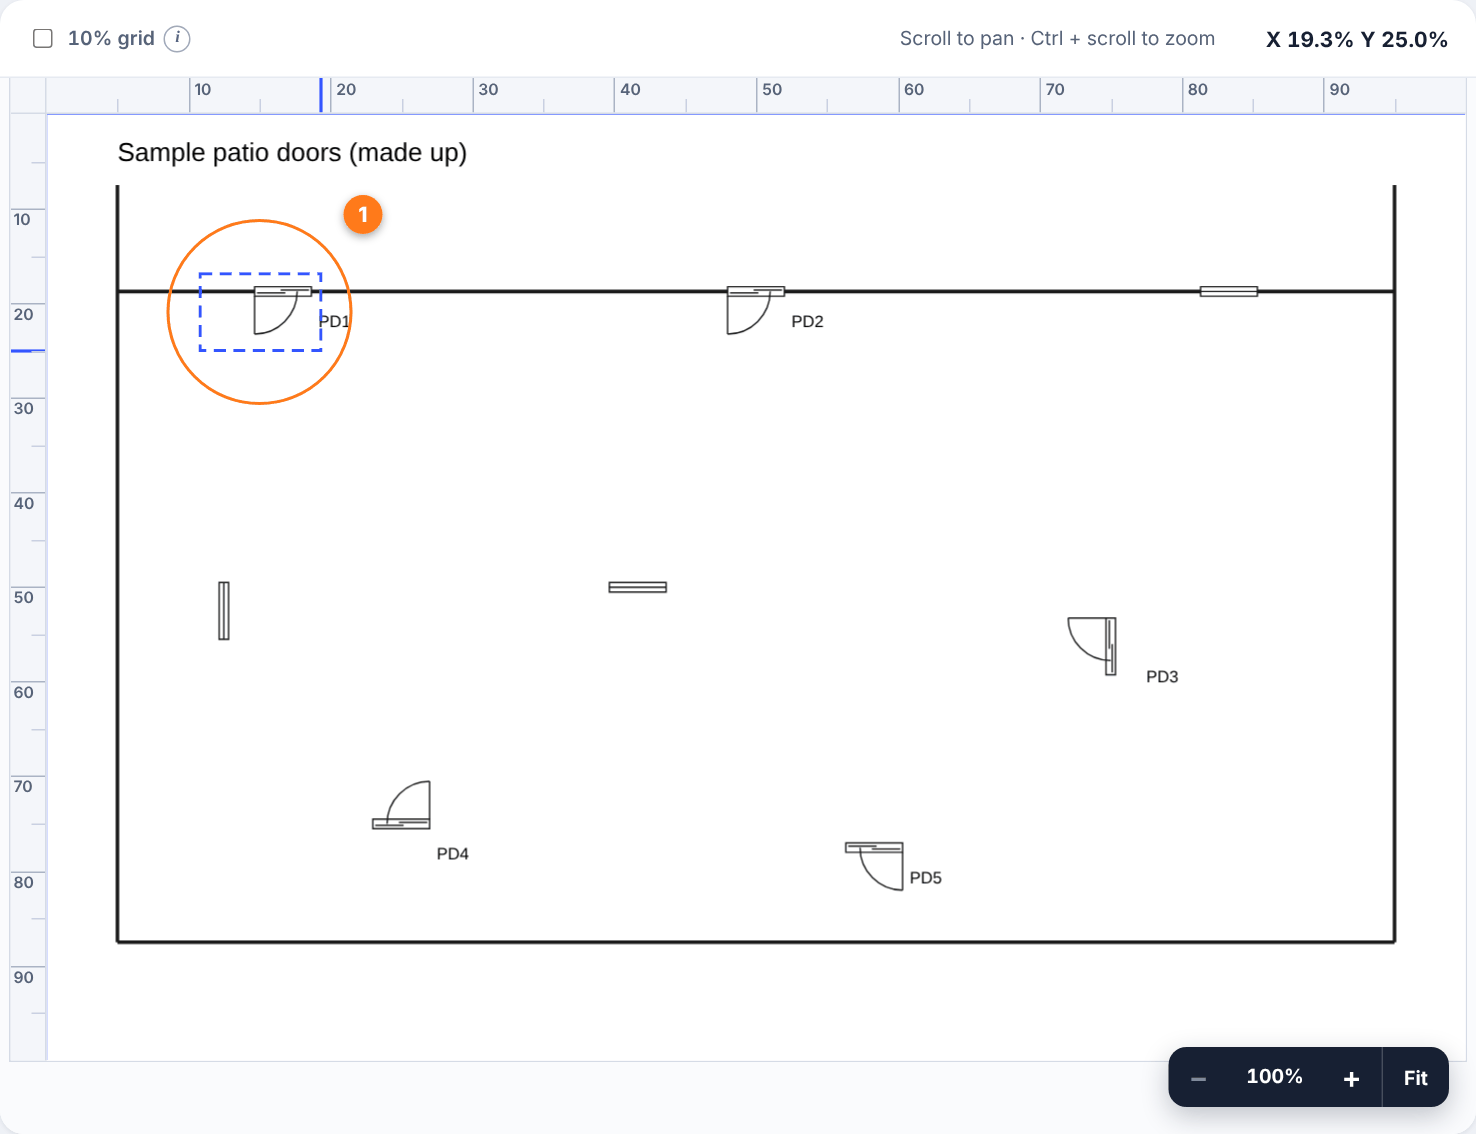
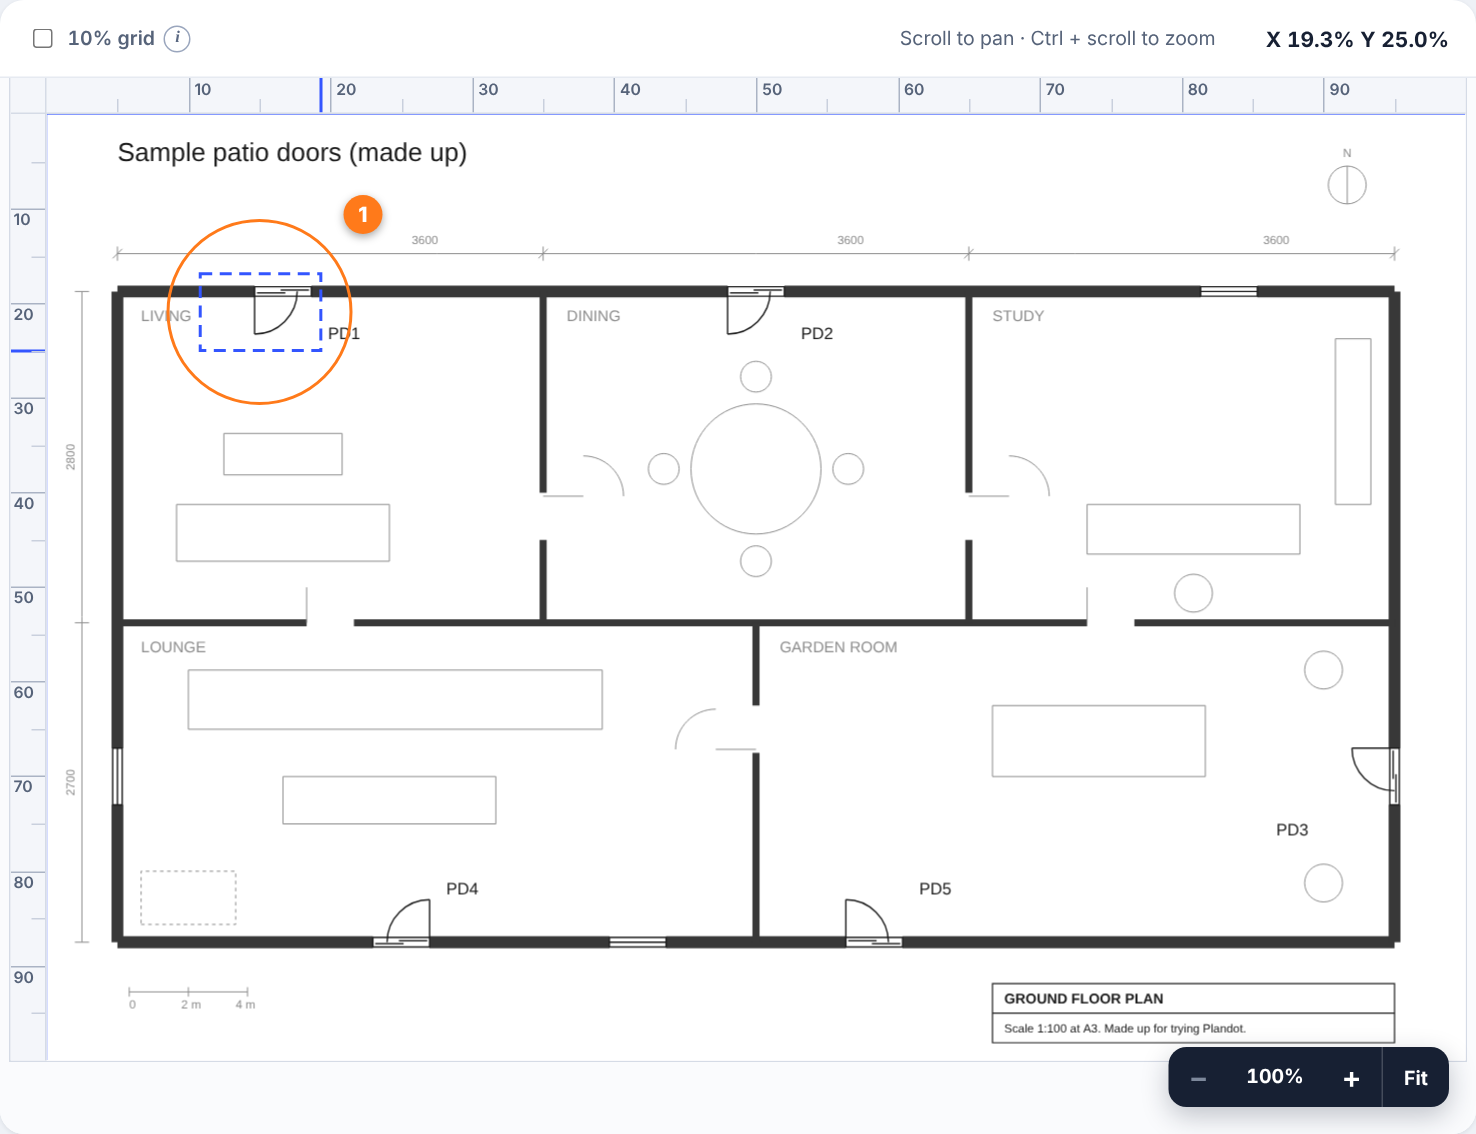
Floor plan sample and plandot.uk links

diff --git a/howto.html b/howto.html
@@ -98,7 +98,7 @@
 
   <section class="card" id="symbols">
     <h2>Finding symbols</h2>
-    <p>Some things on a drawing have no text, such as a patio door or a fire extinguisher symbol. Plandot can find those too. Here it is with a made-up drawing of patio doors (<code>samples/sample-symbols.pdf</code>, included with the project). Five doors are drawn, some turned, mirrored or upside down, along with three windows that look a little like them.</p>
+    <p>Some things on a drawing have no text, such as a patio door or a fire extinguisher symbol. Plandot can find those too. Here it is with a made-up floor plan (<code>samples/sample-symbols.pdf</code>, included with the project). Five patio doors are set into the outside walls, some turned, mirrored or upside down, along with three windows that look a little like them.</p>
 
     <h3>1. Choose Draw box</h3>
     <div class="split">
@@ -110,11 +110,11 @@
 
     <h3>2. Box one example</h3>
     <p>Drag a box on the sheet that fully contains one door. Lines that stick out of the box, such as the wall behind the door, are left out. Choose a clean example with nothing else inside the box.</p>
-    <figure class="shot"><img src="help/img/symbols-2-box.png" width="738" alt="The patio door drawing with a dashed blue box being dragged around the first door. Number one marks the box." loading="lazy"><figcaption>The dashed box goes around one door.</figcaption></figure>
+    <figure class="shot"><img src="help/img/symbols-2-box.png" width="738" alt="A floor plan with rooms, walls and furniture, and a dashed blue box being dragged around the first patio door. Number one marks the box." loading="lazy"><figcaption>The dashed box goes around one door.</figcaption></figure>
 
     <h3>3. Every copy gets a pin</h3>
     <p>Plandot looks for the same shape everywhere on the sheet. It finds all five doors, including the turned, mirrored and upside-down ones, and leaves the windows alone.</p>
-    <figure class="shot"><img src="help/img/symbols-3-found.png" width="738" alt="The same drawing with a blue pin on each of the five doors. Number one marks two of the doors. Number two marks the three look-alike windows, which have no pins." loading="lazy"><figcaption>1: a pin on every door. 2: the look-alike windows are left alone.</figcaption></figure>
+    <figure class="shot"><img src="help/img/symbols-3-found.png" width="738" alt="The same floor plan with a blue pin on each of the five patio doors. Number one marks two of the doors. Number two marks the three look-alike windows, which have no pins." loading="lazy"><figcaption>1: a pin on every door. 2: the look-alike windows are left alone.</figcaption></figure>
 
     <h3>4. Tune the match</h3>
     <div class="split">

diff --git a/index.html b/index.html
@@ -9,8 +9,9 @@
 <meta property="og:type" content="website">
 <meta property="og:title" content="Plandot: turn plan callouts into pins">
 <meta property="og:description" content="Find callouts and symbols on a drawing PDF and get an import file with every pin placed. Runs in your browser; your drawings are never uploaded.">
-<!-- When the site has its final address, make og:image and og:url full web addresses (https://your-domain/docs/preview.png): link previews need them. -->
-<meta property="og:image" content="docs/preview.png">
+<link rel="canonical" href="https://plandot.uk/">
+<meta property="og:url" content="https://plandot.uk/">
+<meta property="og:image" content="https://plandot.uk/docs/preview.png">
 <meta property="og:image:width" content="1200">
 <meta property="og:image:height" content="630">
 <meta name="twitter:card" content="summary_large_image">

diff --git a/samples/make_symbol_sample.py b/samples/make_symbol_sample.py
@@ -1,8 +1,9 @@
-"""Makes samples/sample-symbols.pdf: a made-up plan with patio doors for trying symbol rules.
+"""Makes samples/sample-symbols.pdf: a made-up floor plan with patio doors for trying symbol rules.
 
-There are five patio doors (two the right way up, one turned a quarter, one upside down, one
-mirrored) and three windows that look a little like them. Plandot should pin the doors and leave
-the windows alone. Nothing here comes from a real project.
+The plan has rooms, walls, a little furniture, dimensions and a title block. Five patio doors sit in
+the outside walls (two the right way up, one turned a quarter, one upside down, one mirrored) with
+three windows that look a little like them. Plandot should pin the doors and leave the windows
+alone. Nothing here comes from a real project.
 
 Rebuild:  pip install reportlab   then   python3 samples/make_symbol_sample.py
 Positions are PDF points measured from the TOP-LEFT of the sheet.
@@ -20,16 +21,21 @@ c = canvas.Canvas(str(OUT), pagesize=(W, H), invariant=1)
 c.setTitle("Sample patio doors (made up)")
 c.setAuthor("")
 c.setCreator("samples/make_symbol_sample.py")
-c.setStrokeColor(INK)
 
-# (x, y from the top, turn in degrees, mirrored)
-DOORS = [(200, 150, 0, False), (600, 150, 0, False), (900, 450, 90, False), (300, 600, 180, False), (700, 620, 0, True)]
-WINDOWS = [(1000, 150, 0), (150, 420, 90), (500, 400, 0)]
+GREY = Color(0.55, 0.55, 0.55)
+WALL = Color(0.22, 0.22, 0.22)
+WHITE = Color(1, 1, 1)
+Y = lambda y: H - y  # top-left y to PDF y
+
+# (x, y from the top, turn in degrees, mirrored, label x, label y)
+DOORS = [(200, 150, 0, False, 238, 190), (600, 150, 0, False, 638, 190), (1140, 560, 90, False, 1040, 610),
+         (300, 700, 180, False, 338, 660), (700, 700, 180, True, 738, 660)]
+WINDOWS = [(1000, 150, 0), (60, 560, 90), (500, 700, 0)]
 
 
 def at(x, y, turn, mirrored, draw):
     c.saveState()
-    c.translate(x, H - y)
+    c.translate(x, Y(y))
     c.rotate(-turn)  # clockwise on the sheet
     if mirrored:
         c.scale(-1, 1)
@@ -38,7 +44,7 @@ def at(x, y, turn, mirrored, draw):
 
 
 def door():
-    c.setLineWidth(1.2)
+    c.setStrokeColor(INK); c.setLineWidth(1.2)
     c.rect(-24, -4, 48, 8)            # frame
     c.line(-22, -1.2, 2, -1.2)        # sliding panels
     c.line(-2, 1.2, 22, 1.2)
@@ -47,26 +53,109 @@ def door():
 
 
 def window():
-    c.setLineWidth(1.2)
+    c.setStrokeColor(INK); c.setLineWidth(1.2)
     c.rect(-24, -4, 48, 8)
     c.line(-24, 0, 24, 0)
 
 
-# Walls: long lines with a gap where each door or window sits.
-c.setLineWidth(3)
-c.line(60, H - 150, 176, H - 150); c.line(224, H - 150, 576, H - 150); c.line(624, H - 150, 976, H - 150); c.line(1024, H - 150, 1140, H - 150)
-c.line(60, H - 700, 1140, H - 700)
-c.line(60, H - 60, 60, H - 700); c.line(1140, H - 60, 1140, H - 700)
+def strips(a, b, gaps):
+    """Split the span a..b around openings given as (centre, width)."""
+    out, cur = [], a
+    for g, w in sorted(gaps):
+        out.append((cur, g - w / 2)); cur = g + w / 2
+    out.append((cur, b))
+    return out
 
-for x, y, t, m in DOORS:
+
+def wall(horizontal, at_, a, b, gaps=(), t=8):
+    c.setFillColor(WALL); c.setStrokeColor(WALL); c.setLineWidth(0.5)
+    for s0, s1 in strips(a, b, gaps):
+        if horizontal:
+            c.rect(s0, Y(at_) - t / 2, s1 - s0, t, fill=1, stroke=0)
+        else:
+            c.rect(at_ - t / 2, Y(s1), t, s1 - s0, fill=1, stroke=0)
+
+
+def leaf(x, y, vertical, size=34, flip=1):
+    """An ordinary room door: a thin leaf and its swing arc (no frame, unlike the patio doors)."""
+    c.setStrokeColor(GREY); c.setLineWidth(0.8)
+    if vertical:
+        c.line(x, Y(y - size / 2 * flip), x + size * flip, Y(y - size / 2 * flip))
+        c.arc(x - size + size * flip, Y(y - size / 2 * flip) - size, x + size + size * flip, Y(y - size / 2 * flip) + size, 0 if flip > 0 else 90, 90)
+    else:
+        c.line(x - size / 2 * flip, Y(y), x - size / 2 * flip, Y(y) + size * flip)
+
+
+def box(x0, y0, x1, y1, dash=False):
+    c.setStrokeColor(GREY); c.setLineWidth(0.8)
+    if dash: c.setDash(3, 3)
+    c.rect(x0, Y(y1), x1 - x0, y1 - y0)
+    c.setDash()
+
+
+def disc(x, y, r):
+    c.setStrokeColor(GREY); c.setLineWidth(0.8); c.circle(x, Y(y), r)
+
+
+# --- walls: outside walls thick, partitions thinner, a gap wherever a door or window sits
+OUTSIDE = dict(t=10)
+wall(True, 150, 60, 1140, gaps=[(200, 48), (600, 48), (1000, 48)], **OUTSIDE)
+wall(True, 700, 60, 1140, gaps=[(300, 48), (500, 48), (700, 48)], **OUTSIDE)
+wall(False, 60, 150, 700, gaps=[(560, 48)], **OUTSIDE)
+wall(False, 1140, 150, 700, gaps=[(560, 48)], **OUTSIDE)
+wall(True, 430, 60, 1140, gaps=[(240, 40), (900, 40)], t=6)
+wall(False, 420, 150, 430, gaps=[(340, 40)], t=6)
+wall(False, 780, 150, 430, gaps=[(340, 40)], t=6)
+wall(False, 600, 430, 700, gaps=[(520, 40)], t=6)
+
+# --- furniture (light grey, so the doors and windows stay the clear detail)
+box(110, 330, 290, 378); box(150, 270, 250, 305)                       # living: sofa, coffee table
+disc(600, 300, 55); [disc(600 + dx, 300 + dy, 13) for dx, dy in ((0, -78), (0, 78), (-78, 0), (78, 0))]  # dining
+box(880, 330, 1060, 372); disc(970, 405, 16); box(1090, 190, 1120, 330)  # study: desk, chair, shelves
+box(120, 470, 470, 520); box(200, 560, 380, 600); box(80, 640, 160, 685, dash=True)  # lounge
+box(800, 500, 980, 560); disc(1080, 470, 16); disc(1080, 650, 16)      # garden room
+
+# --- ordinary room doors (a thin leaf and arc, nothing like the patio doors)
+leaf(420, 340, True); leaf(780, 340, True); leaf(600, 520, True, flip=-1)
+c.setStrokeColor(GREY); c.setLineWidth(0.8)
+c.line(220, Y(430), 220, Y(430) + 30); c.line(880, Y(430), 880, Y(430) + 30)
+
+# --- the patio doors and the windows that look a little like them
+for x, y, t, m, *_l in DOORS:
     at(x, y, t, m, door)
 for x, y, t in WINDOWS:
     at(x, y, t, False, window)
 
+# --- labels
+c.setFillColor(INK)
 c.setFont("Helvetica", 14)
-for i, (x, y, *_r) in enumerate(DOORS, 1):
-    c.drawString(x + 30, H - y - 30, f"PD{i}")
+for i, (*_p, lx, ly) in enumerate(DOORS, 1):
+    c.drawString(lx, Y(ly), f"PD{i}")
+c.setFillColor(GREY); c.setFont("Helvetica", 13)
+for t, x, y in (("LIVING", 80, 175), ("DINING", 440, 175), ("STUDY", 800, 175), ("LOUNGE", 80, 455), ("GARDEN ROOM", 620, 455)):
+    c.drawString(x, Y(y), t)
+
+# --- dimensions, north arrow, scale bar and title block
+c.setStrokeColor(GREY); c.setFillColor(GREY); c.setLineWidth(0.7); c.setFont("Helvetica", 10)
+c.line(60, Y(118), 1140, Y(118))
+for x in (60, 420, 780, 1140):
+    c.line(x, Y(112), x, Y(124)); c.line(x - 4, Y(122), x + 4, Y(114))
+for x in (320, 680, 1040):
+    c.drawCentredString(x, Y(110), "3600")
+c.line(30, Y(150), 30, Y(700))
+for y in (150, 430, 700):
+    c.line(24, Y(y), 36, Y(y))
+c.saveState(); c.translate(24, Y(290)); c.rotate(90); c.drawCentredString(0, 0, "2800"); c.restoreState()
+c.saveState(); c.translate(24, Y(565)); c.rotate(90); c.drawCentredString(0, 0, "2700"); c.restoreState()
+c.circle(1100, Y(60), 16); c.line(1100, Y(76), 1100, Y(44)); c.drawCentredString(1100, Y(36), "N")
+c.line(70, Y(742), 170, Y(742)); [c.line(x, Y(738), x, Y(746)) for x in (70, 120, 170)]
+c.drawString(70, Y(756), "0"); c.drawString(114, Y(756), "2 m"); c.drawString(160, Y(756), "4 m")
+c.setStrokeColor(INK); c.setFillColor(INK); c.setLineWidth(1)
+c.rect(800, Y(785), 340, 50)
+c.line(800, Y(760), 1140, Y(760))
+c.setFont("Helvetica-Bold", 12); c.drawString(810, Y(752), "GROUND FLOOR PLAN")
+c.setFont("Helvetica", 10); c.drawString(810, Y(776), "Scale 1:100 at A3. Made up for trying Plandot.")
 c.setFont("Helvetica", 22)
-c.drawString(60, H - 40, "Sample patio doors (made up)")
+c.drawString(60, Y(40), "Sample patio doors (made up)")
 c.save()
 print("wrote", OUT)

diff --git a/README.md b/README.md
@@ -1,5 +1,7 @@
 # Plandot
 
+Live at **https://plandot.uk**
+
 Turn callouts and symbols on a plan into pins, ready to import, with every pin placed where it belongs.
 
 **Live app:** the link is in the *About* box at the top right of this page. No install, no sign-in.
